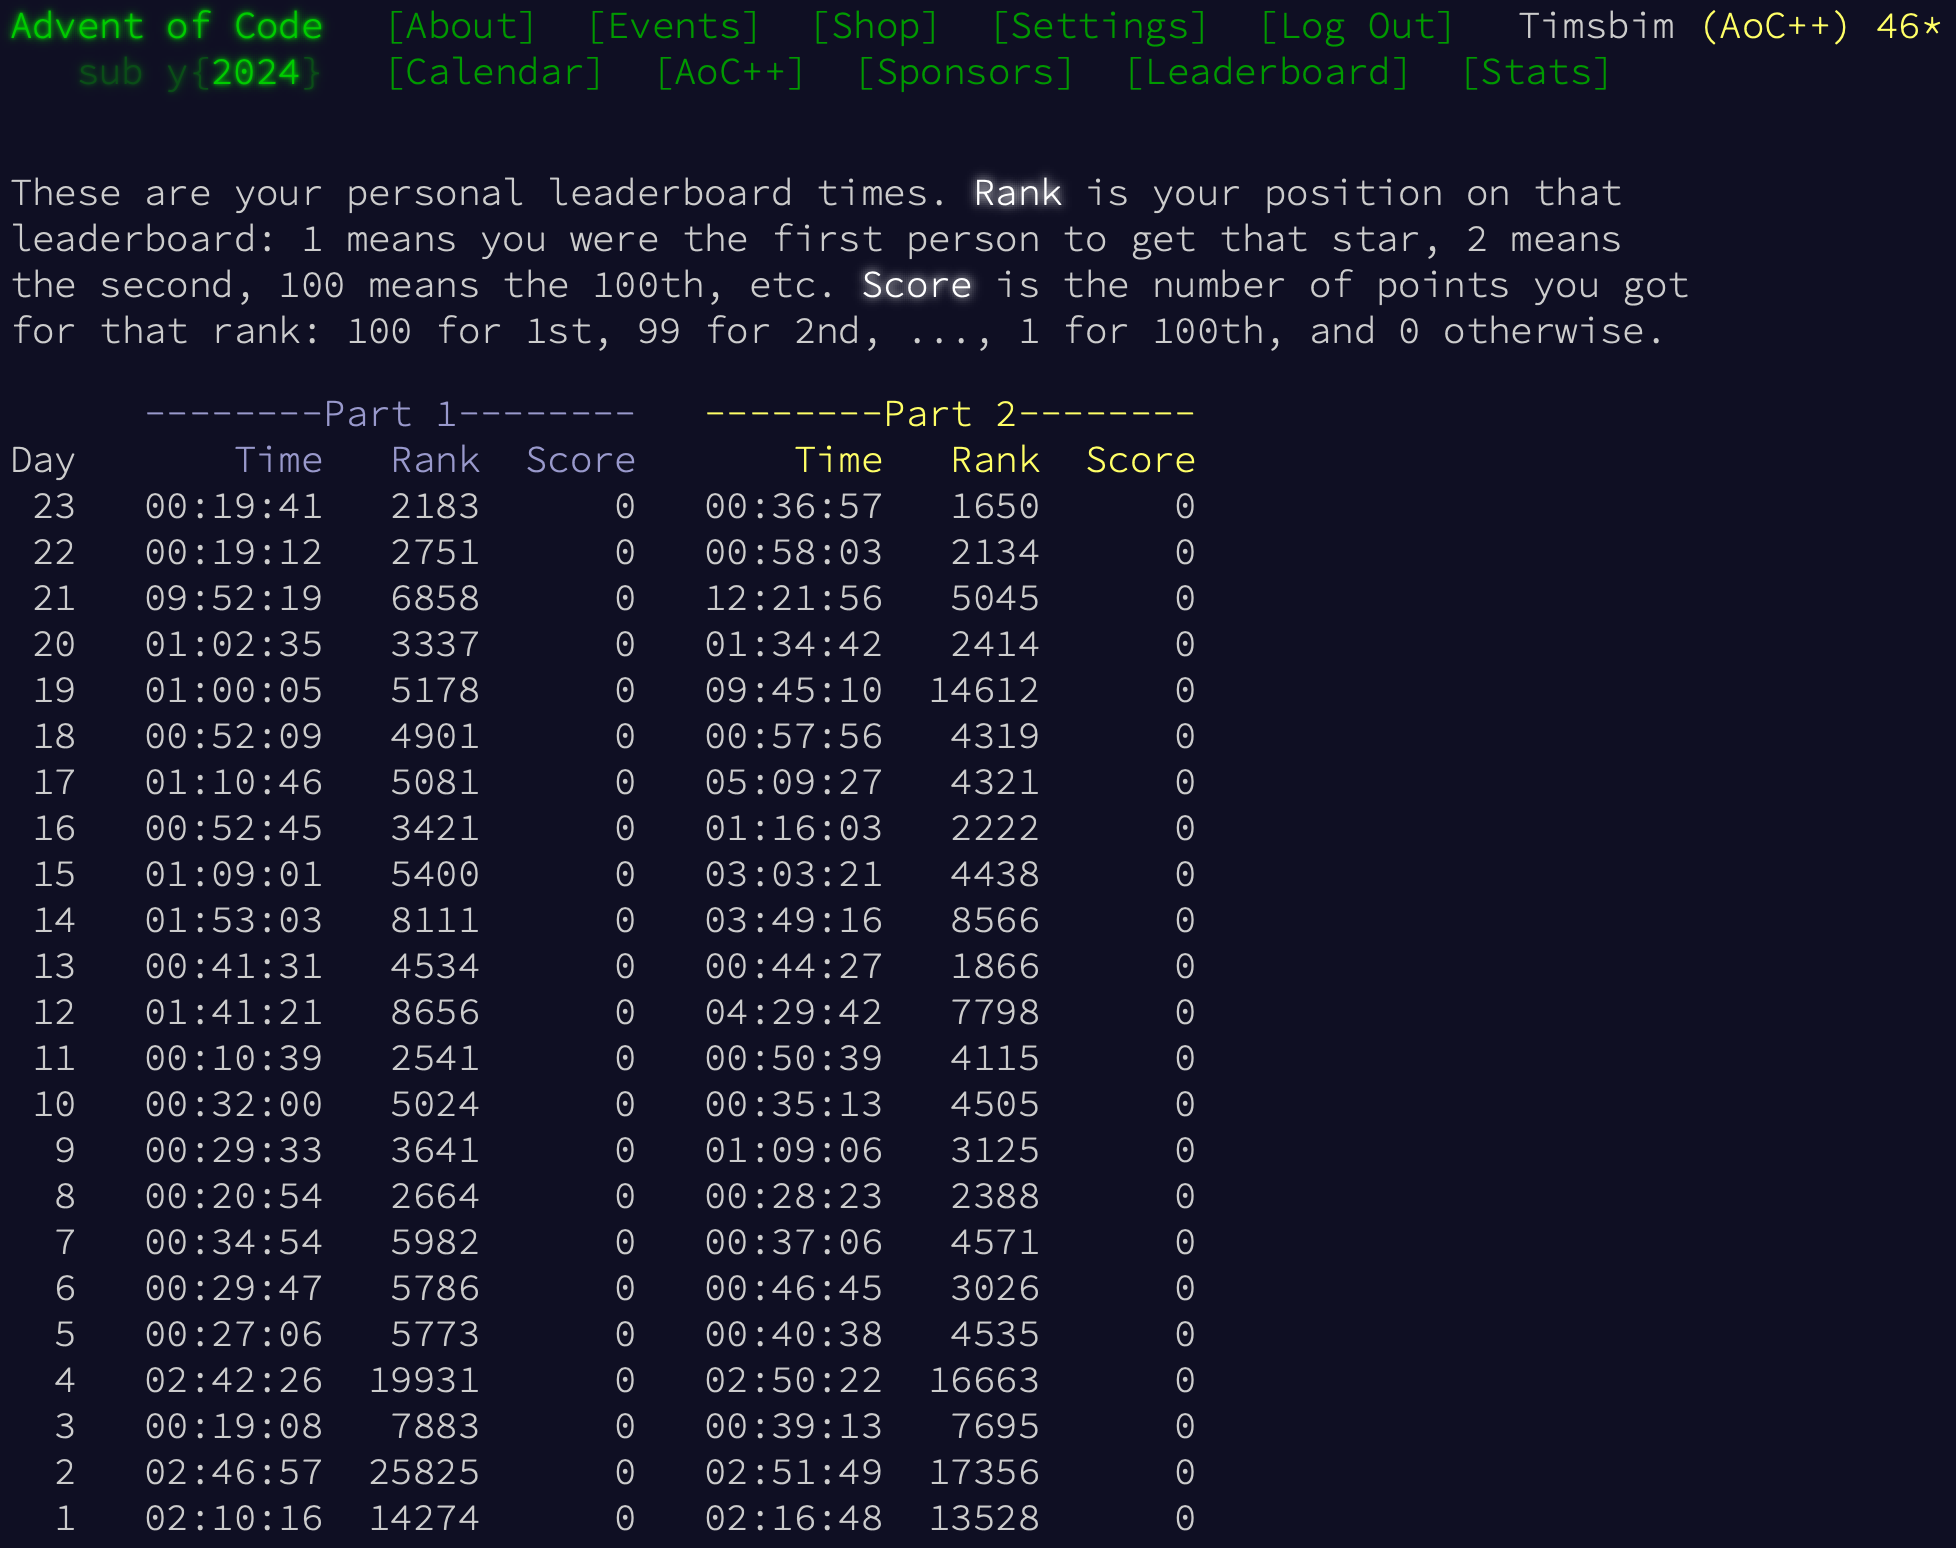
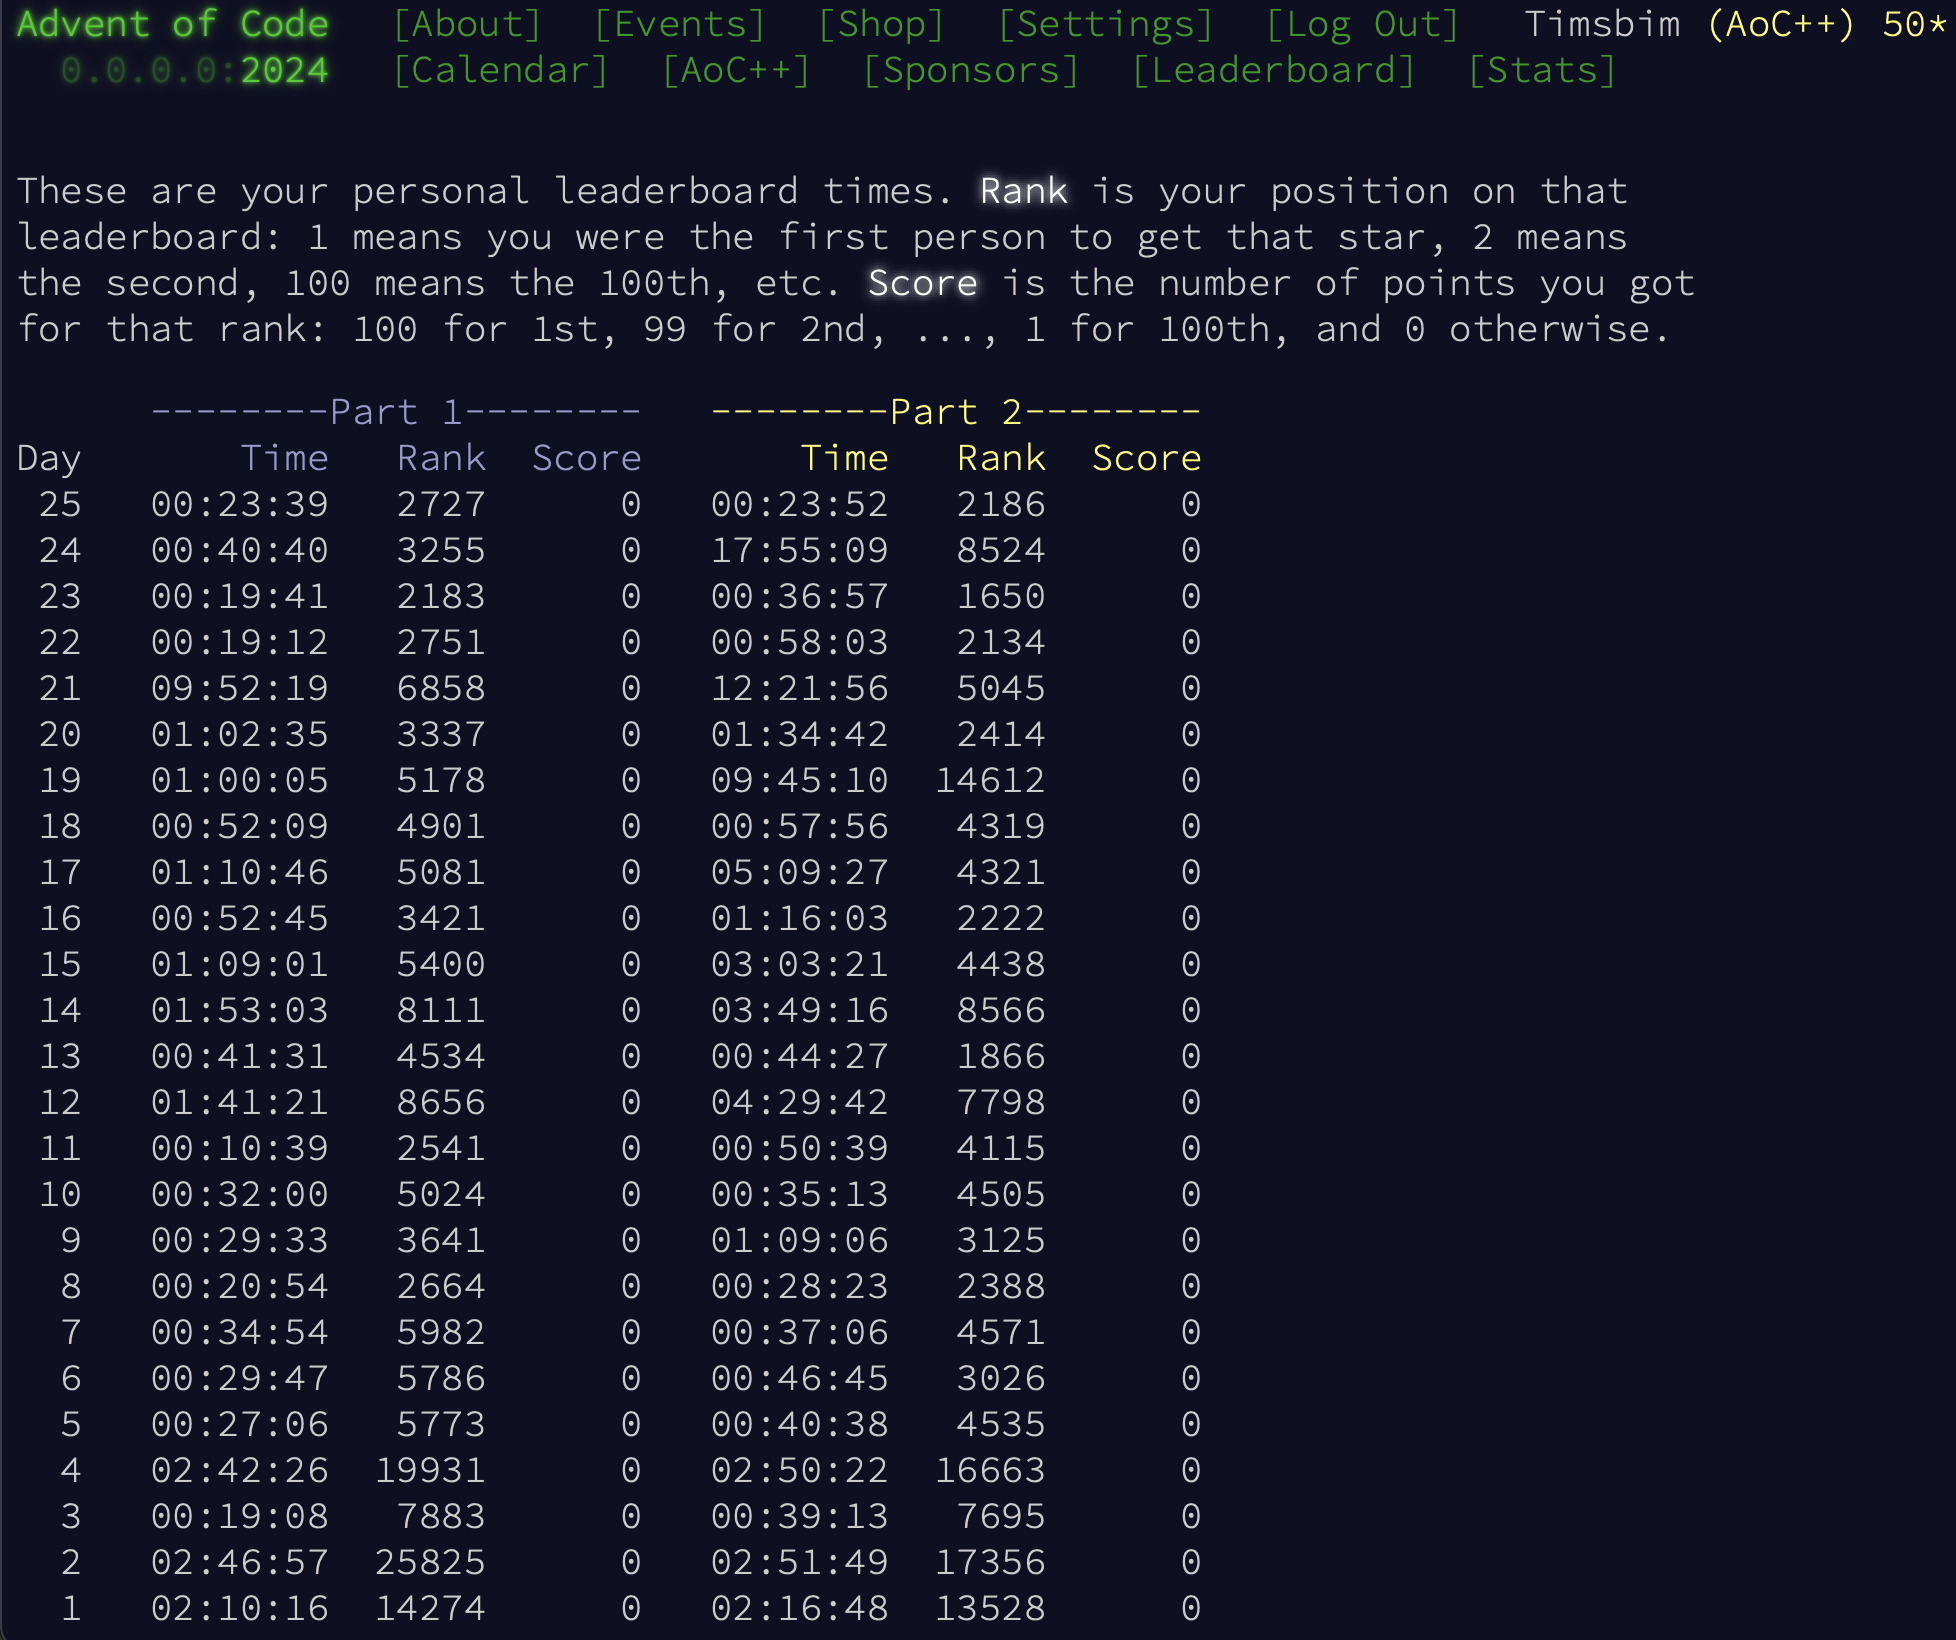
Update day 25

diff --git a/run_all.py b/run_all.py
@@ -1055,6 +1055,32 @@ def day_23():
     print(f"  - part 2:", solution_2)
 
 
+def day_25():
+    print("Day 25:")
+
+    file_name = f"2024/input/day_25{'_example' if EXAMPLE else ''}.txt"
+    with open(file_name, "r") as file:
+        blocks = file.read().split("\n\n")
+    keys, locks = [], []
+    for block in blocks:
+        block = block.rstrip().splitlines()
+        if block[0] == "#####":
+            locks.append(tuple(zip(*block[1:])))
+        else:
+            keys.append(tuple(zip(*block[:-1])))
+
+    count, heights = 0, {}
+    for key in keys:
+        k_heights = tuple(col.count("#") for col in key)
+        for lock in locks:
+            l_heights = heights.get(lock)
+            if l_heights is None:
+                heights[lock] = l_heights = tuple(col.count("#") for col in lock)
+            count += all(h0 + h1 <= 5 for h0, h1 in zip(k_heights, l_heights))    
+
+    print(f"  - part 1:", count)
+
+
 days = {
     1: day_1,
     2: day_2,
@@ -1078,7 +1104,8 @@ days = {
     20: day_20,
     21: day_21,
     22: day_22,
-    23: day_23
+    23: day_23,
+    25: day_25
 }
 
 

diff --git a/day_25.py b/day_25.py
@@ -1,0 +1,24 @@
+print("Day 25")
+EXAMPLE = False
+
+file_name = f"2024/input/day_25{'_example' if EXAMPLE else ''}.txt"
+with open(file_name, "r") as file:
+    blocks = file.read().split("\n\n")
+keys, locks = [], []
+for block in blocks:
+    block = block.rstrip().splitlines()
+    if block[0] == "#####":
+        locks.append(tuple(zip(*block[1:])))
+    else:
+        keys.append(tuple(zip(*block[:-1])))
+
+count, heights = 0, {}
+for key in keys:
+    k_heights = tuple(col.count("#") for col in key)
+    for lock in locks:
+        l_heights = heights.get(lock)
+        if l_heights is None:
+            heights[lock] = l_heights = tuple(col.count("#") for col in lock)
+        count += all(h0 + h1 <= 5 for h0, h1 in zip(k_heights, l_heights))    
+
+print("Part 1:", count)
